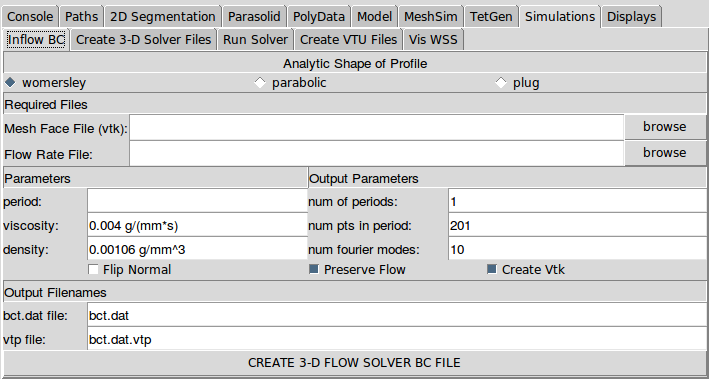
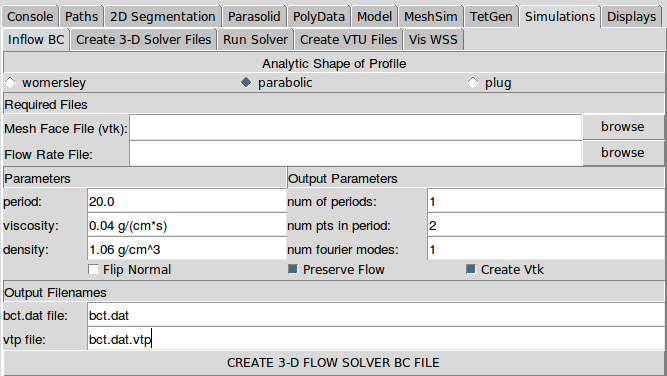
changes to svSolver guide as suggested by Adam

Changed region(s): [[0.0, 0.0, 1.0, 1.0], [0.0, 0.6436, 0.09, 0.7021], [0.0, 0.5851, 0.09, 0.6144]]

diff --git a/source/documentation/flowsolver/_bcPractice.md b/source/documentation/flowsolver/_bcPractice.md
@@ -36,7 +36,7 @@ Under the **Output Parameters** menu, enter the following values:
 
 - **num pts in period**: 2. This is the number of _temporal_ data points that you want to have in your bct.dat. This is not necessarily the number of time points in the \*.flow file. In this case, they match (2 in both cases), but this is because this is a very simple example using steady flow and two time points is all we need to characterize a constant flow. In general, your \*.flow file will have in the order of $20$ data points over the cardiac cycle (that’s about how many points you will be able to reconstruct using **PC-MRI**, for example), and your bct.dat will have on the order of $100$-$200$ points. Whatever is enough to have a smooth  representation of the inflow wave mapping to velocity vectors at the inlet face.
 
-- **num fourier modes**: 10. Fourier smoothing allows to smooth your inlet flow curve and to make sure that you have a periodic function in the specified interval. 
+- **num fourier modes**: 1. Fourier smoothing allows to smooth your inlet flow curve and to make sure that you have a periodic function in the specified interval. 
 
 **WARNING**: Be careful with this! **SimVascular** is doing a Fourier Series approximation of the data that you provide in the \*.flow file. Since in this case, our data is constant flow, we only need one Fourier mode to capture this appropriately. For pulsatile flow problems, we will need more Fourier Modes to accurately represent the \*.flow data (usually, $10$ Fourier modes is enough for a pulsatile problem). After you are done entering all these parameters, click on the _CREATE 3-D FLOW SOLVER BC FILE_ button to generate the bct.dat file. 
 
@@ -107,10 +107,10 @@ zero_pressure_vtp mesh-surfaces/outlet.vtp
 
 # SURFACE NUMBERING
 
-set_surface_id_vtp cylinder.exterior.vtp 0
-set_surface_id_vtp mesh-surfaces/inlet.vtp 1
-set_surface_id_vtp mesh-surfaces/outlet.vtp 2
-set_surface_id_vtp mesh-surfaces/wall.vtp 3
+set_surface_id_vtp cylinder.exterior.vtp 1
+set_surface_id_vtp mesh-surfaces/inlet.vtp 2
+set_surface_id_vtp mesh-surfaces/outlet.vtp 3
+set_surface_id_vtp mesh-surfaces/wall.vtp 4
 
 # WRITE SOLVER FILES
 
